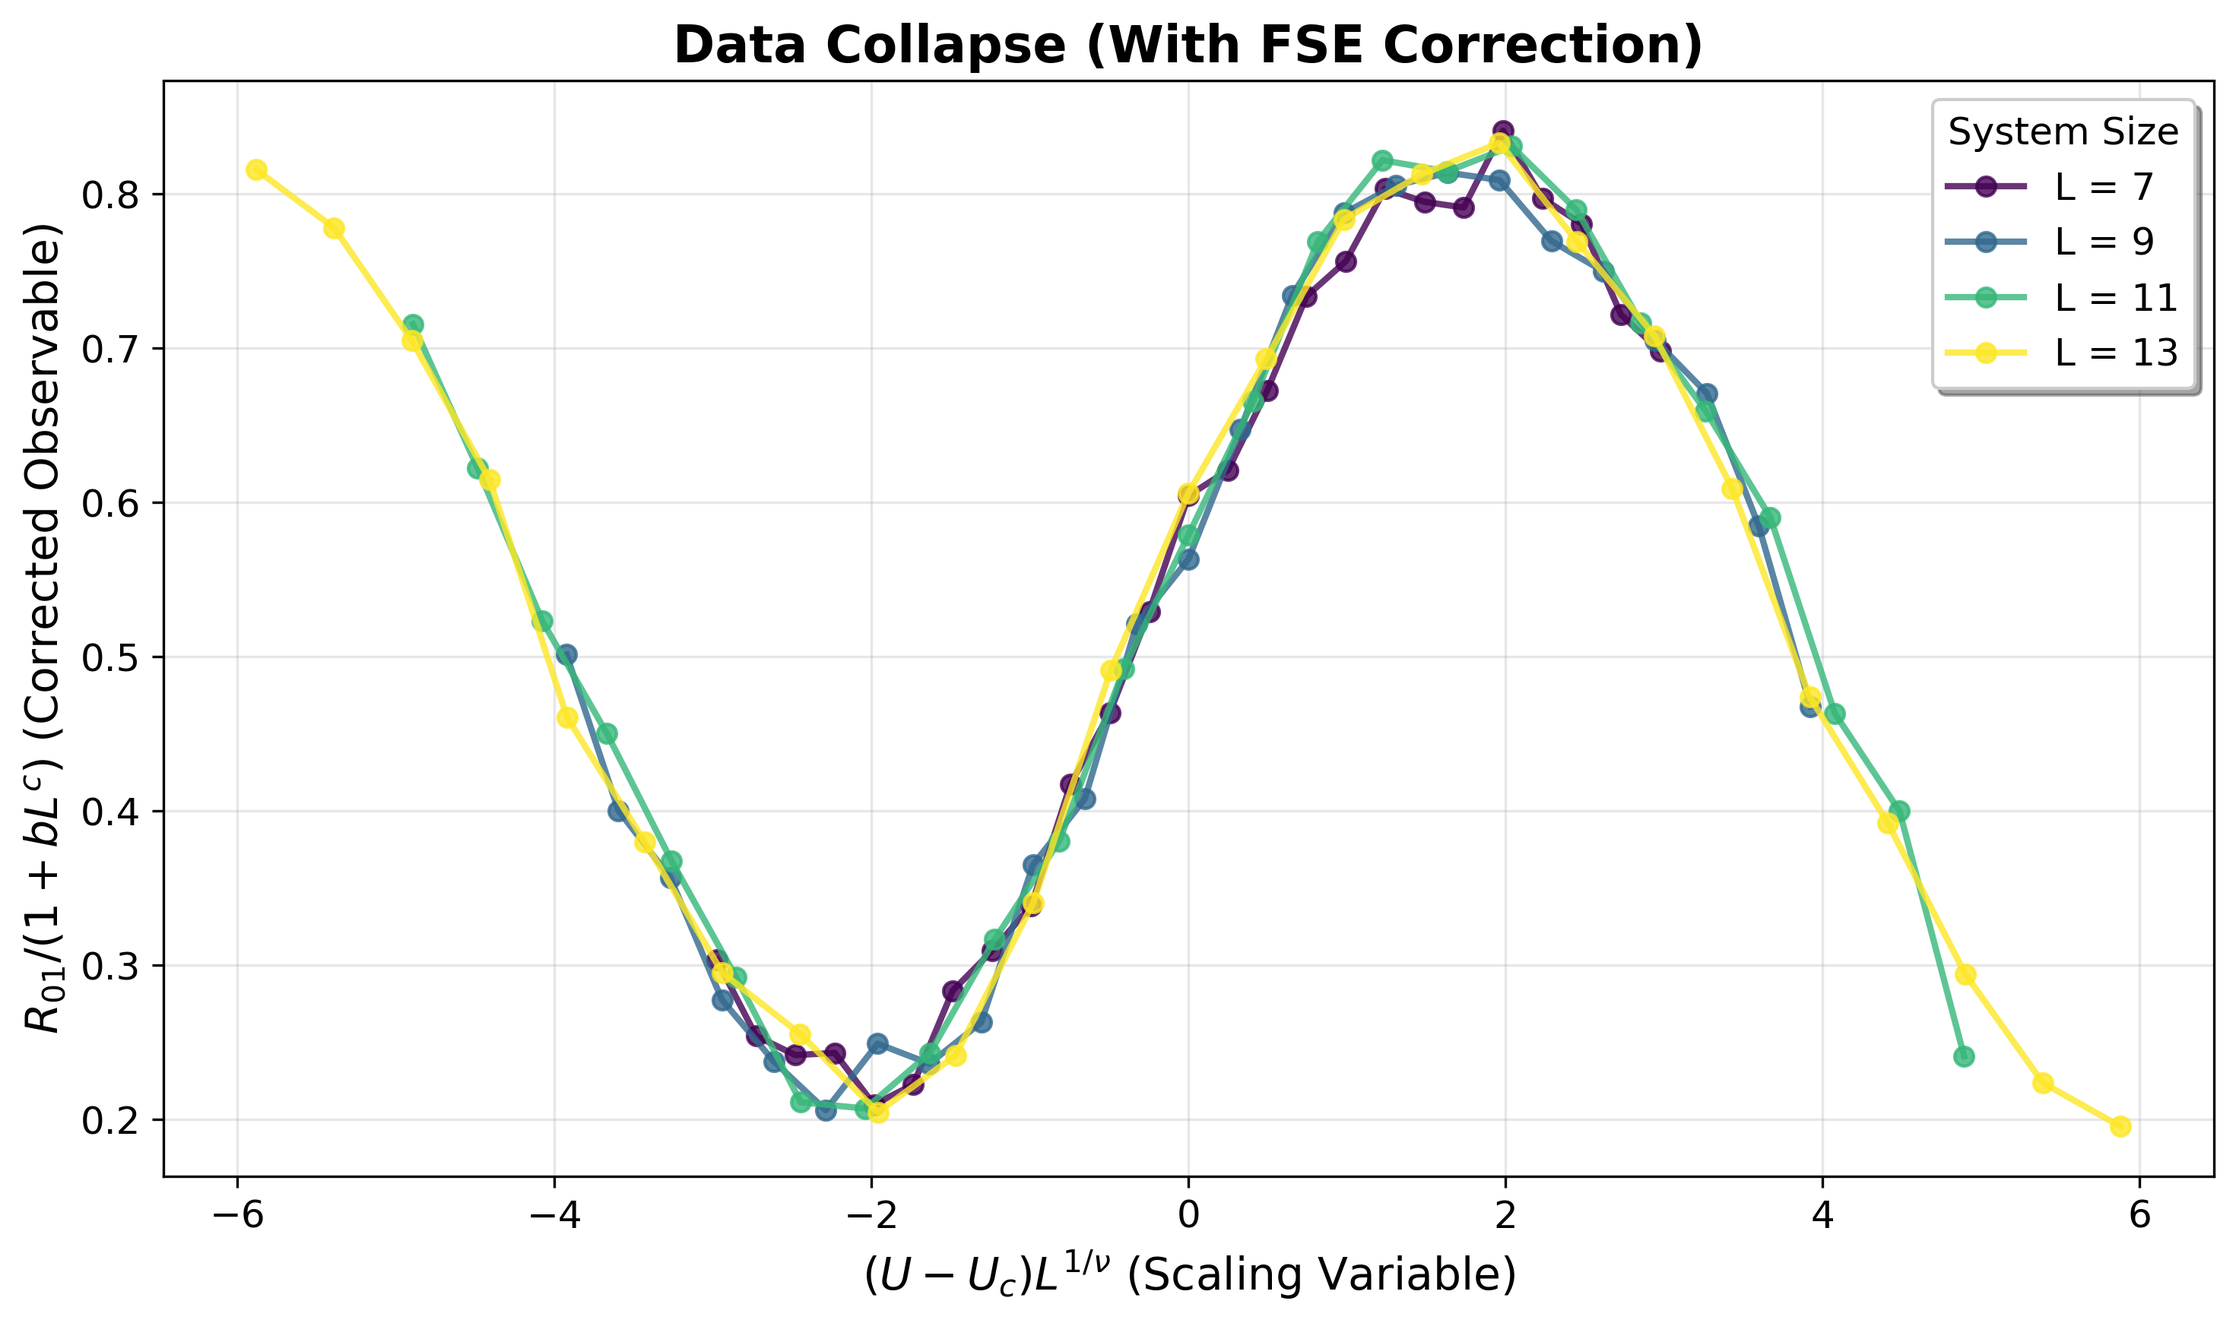
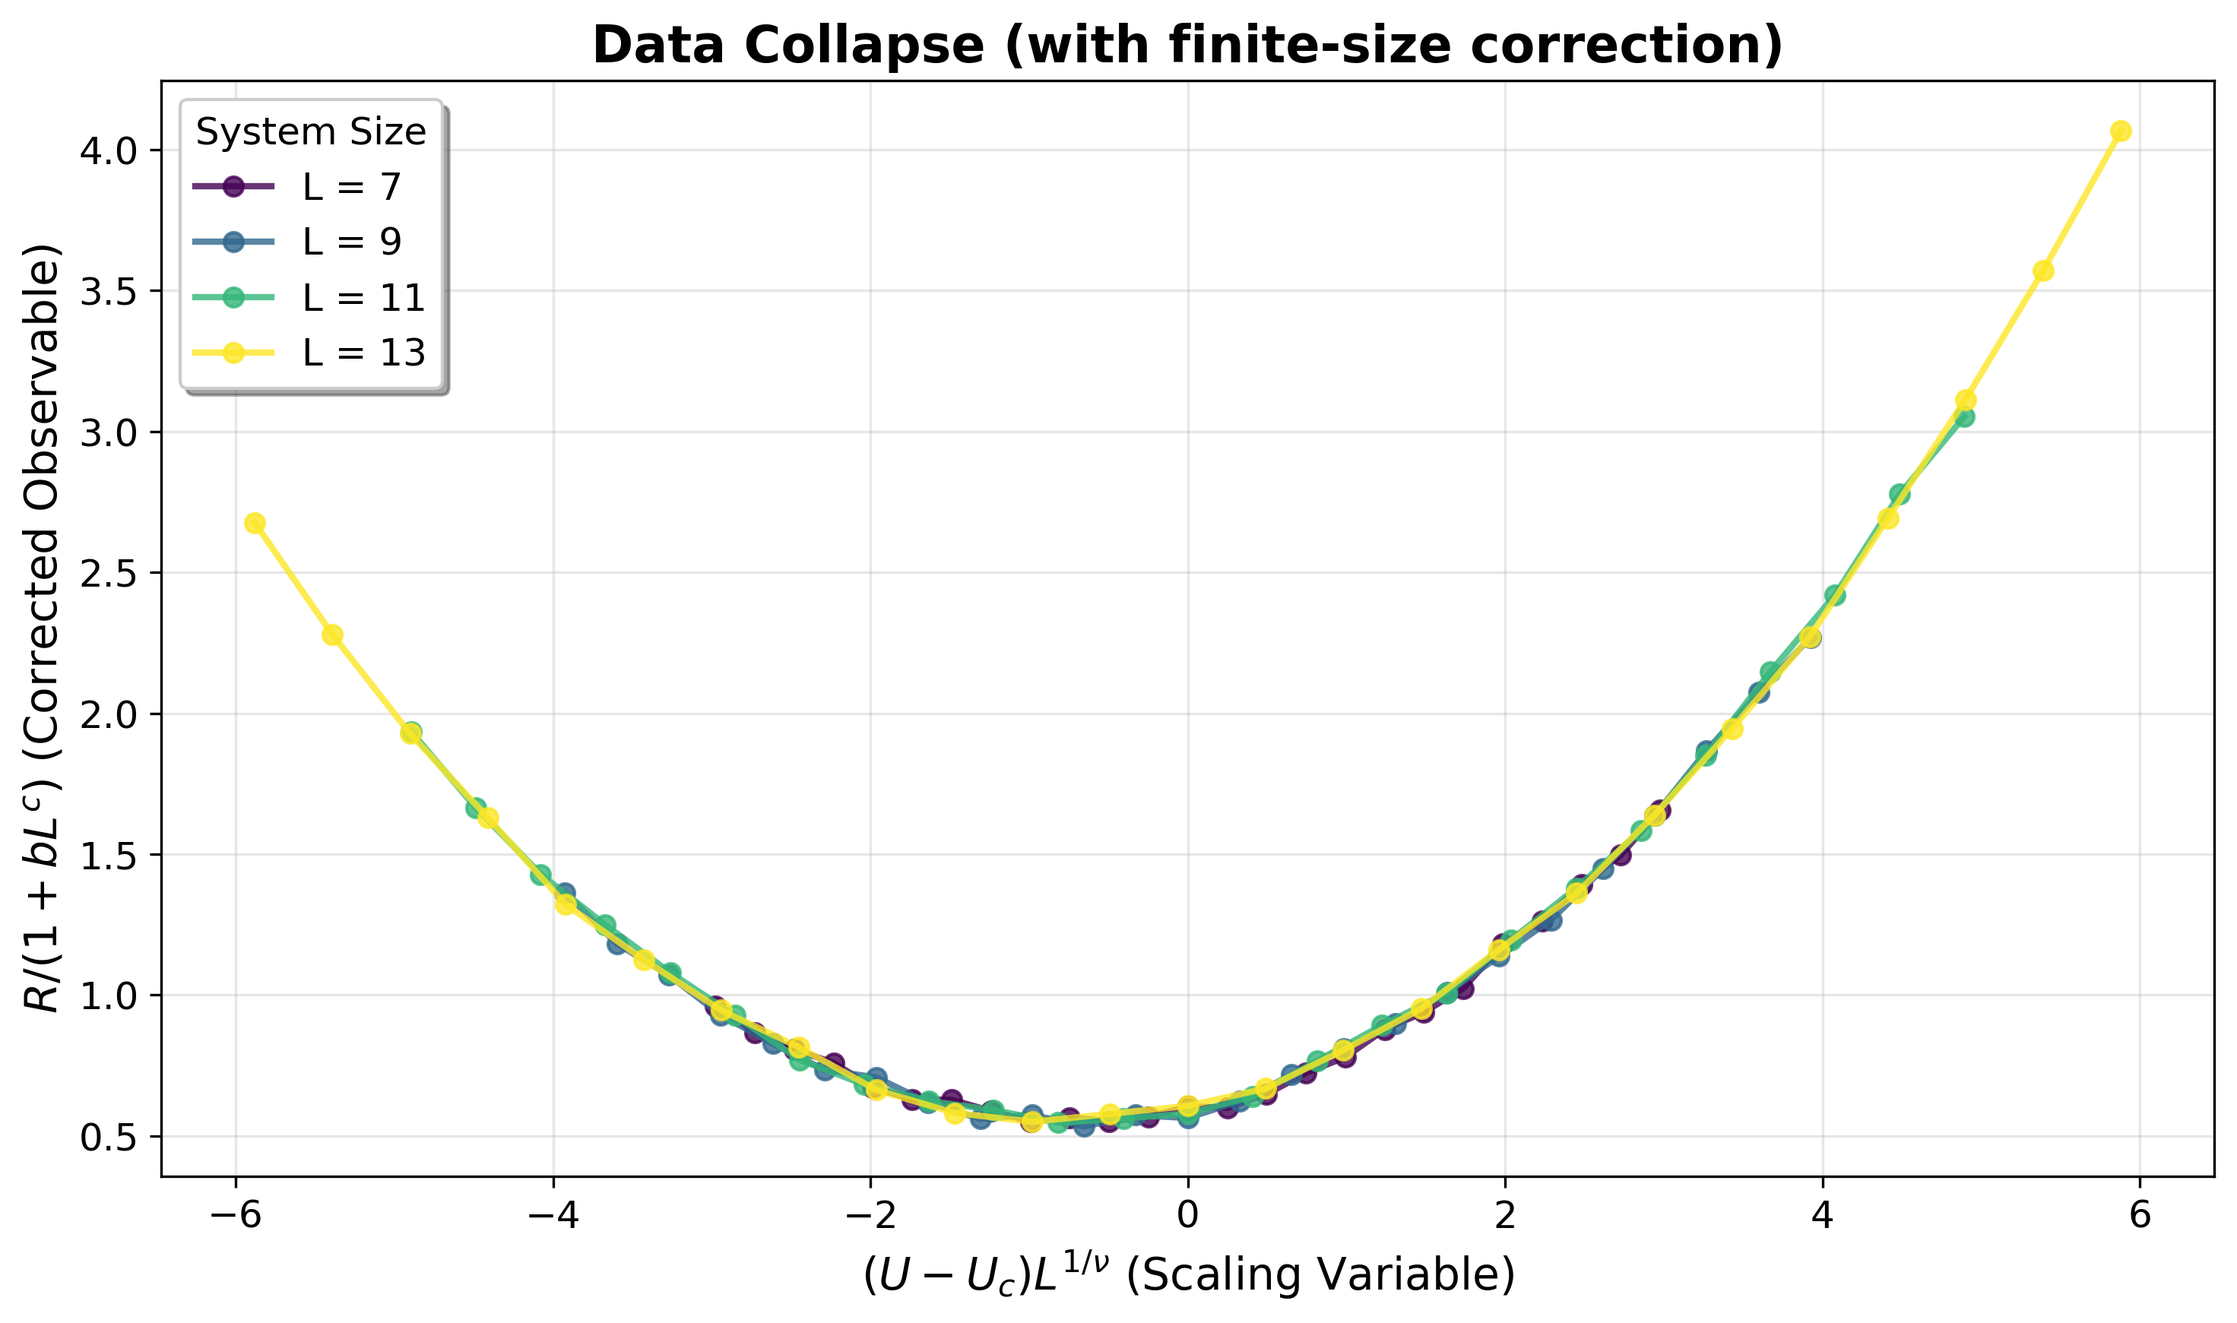
docs: remove acronym FSE; use quadratic demo data; rename R01->R; regenerate demo images

diff --git a/generate_demo_images.py b/generate_demo_images.py
@@ -1,0 +1,155 @@
+#!/usr/bin/env python3
+"""
+Generate demo images for README to showcase data collapse effects.
+"""
+
+import numpy as np
+import matplotlib.pyplot as plt
+from matplotlib import rcParams
+import os
+
+# Set matplotlib style for better-looking plots
+rcParams['font.size'] = 12
+rcParams['axes.labelsize'] = 14
+rcParams['axes.titlesize'] = 16
+rcParams['xtick.labelsize'] = 12
+rcParams['ytick.labelsize'] = 12
+rcParams['legend.fontsize'] = 12
+rcParams['figure.figsize'] = (10, 6)
+
+def generate_demo_data():
+    """Generate synthetic data that demonstrates data collapse."""
+    np.random.seed(42)  # For reproducibility
+    
+    # System sizes
+    L_values = [7, 9, 11, 13]
+    
+    # Control parameter range
+    U_range = np.linspace(8.3, 9.0, 25)
+    
+    # True critical parameters
+    U_c_true = 8.65
+    a_true = 1.1
+    
+    # Generate data for each L
+    all_data = []
+    for L in L_values:
+        # Scaling variable
+        x_scaled = (U_range - U_c_true) * (L ** a_true)
+        
+        # Quadratic-like universal function
+        Y_universal = 0.6 + 0.12 * x_scaled + 0.08 * (x_scaled**2)
+        
+        # Add finite-size corrections (multiplicative)
+        Y_fse = Y_universal * (1 + 0.4 * L**(-0.8))
+        
+        # Add noise
+        noise = 0.02 * np.random.randn(len(U_range))
+        Y_noisy = Y_fse + noise
+        
+        # Store data
+        for U, Y in zip(U_range, Y_noisy):
+            all_data.append([L, U, Y])
+    
+    return np.array(all_data)
+
+def plot_raw_data(data, save_path):
+    """Plot raw data before collapse."""
+    plt.figure(figsize=(10, 6))
+    
+    # Group by L and plot
+    L_values = sorted(set(data[:, 0]))
+    colors = plt.cm.viridis(np.linspace(0, 1, len(L_values)))
+    
+    for i, L in enumerate(L_values):
+        mask = data[:, 0] == L
+        U = data[mask, 1]
+        Y = data[mask, 2]
+        plt.plot(U, Y, 'o-', color=colors[i], linewidth=2, markersize=6, 
+                label=f'L = {int(L)}', alpha=0.8)
+    
+    plt.xlabel(r'$U$ (Control Parameter)', fontsize=14)
+    plt.ylabel(r'$R$ (Observable, dimensionless)', fontsize=14)
+    plt.title('Raw Data Before Collapse', fontsize=16, fontweight='bold')
+    plt.legend(title='System Size', frameon=True, fancybox=True, shadow=True)
+    plt.grid(True, alpha=0.3)
+    plt.tight_layout()
+    
+    os.makedirs(os.path.dirname(save_path), exist_ok=True)
+    plt.savefig(save_path, dpi=300, bbox_inches='tight')
+    plt.close()
+    print(f"Saved raw data plot to: {save_path}")
+
+def plot_no_fse_collapse(data, save_path):
+    """Plot data after collapse without finite-size correction."""
+    plt.figure(figsize=(10, 6))
+    
+    U_c_true = 8.65
+    a_true = 1.1
+    
+    L_values = sorted(set(data[:, 0]))
+    colors = plt.cm.viridis(np.linspace(0, 1, len(L_values)))
+    
+    for i, L in enumerate(L_values):
+        mask = data[:, 0] == L
+        U = data[mask, 1]
+        Y = data[mask, 2]
+        x_scaled = (U - U_c_true) * (L ** a_true)
+        plt.plot(x_scaled, Y, 'o-', color=colors[i], linewidth=2, markersize=6,
+                label=f'L = {int(L)}', alpha=0.8)
+    
+    plt.xlabel(r'$(U - U_c) L^{1/\nu}$ (Scaling Variable)', fontsize=14)
+    plt.ylabel(r'$R$ (Observable, dimensionless)', fontsize=14)
+    plt.title('Data Collapse (without finite-size correction)', fontsize=16, fontweight='bold')
+    plt.legend(title='System Size', frameon=True, fancybox=True, shadow=True)
+    plt.grid(True, alpha=0.3)
+    plt.tight_layout()
+    
+    plt.savefig(save_path, dpi=300, bbox_inches='tight')
+    plt.close()
+    print(f"Saved No finite-size-correction plot to: {save_path}")
+
+def plot_fse_collapse(data, save_path):
+    """Plot data after collapse with finite-size correction."""
+    plt.figure(figsize=(10, 6))
+    
+    U_c_true = 8.65
+    a_true = 1.1
+    b_true = 0.4
+    c_true = -0.8
+    
+    L_values = sorted(set(data[:, 0]))
+    colors = plt.cm.viridis(np.linspace(0, 1, len(L_values)))
+    
+    for i, L in enumerate(L_values):
+        mask = data[:, 0] == L
+        U = data[mask, 1]
+        Y = data[mask, 2]
+        x_scaled = (U - U_c_true) * (L ** a_true)
+        Y_corrected = Y / (1 + b_true * (L ** c_true))
+        plt.plot(x_scaled, Y_corrected, 'o-', color=colors[i], linewidth=2, markersize=6,
+                label=f'L = {int(L)}', alpha=0.8)
+    
+    plt.xlabel(r'$(U - U_c) L^{1/\nu}$ (Scaling Variable)', fontsize=14)
+    plt.ylabel(r'$R / (1 + b L^c)$ (Corrected Observable)', fontsize=14)
+    plt.title('Data Collapse (with finite-size correction)', fontsize=16, fontweight='bold')
+    plt.legend(title='System Size', frameon=True, fancybox=True, shadow=True)
+    plt.grid(True, alpha=0.3)
+    plt.tight_layout()
+    
+    plt.savefig(save_path, dpi=300, bbox_inches='tight')
+    plt.close()
+    print(f"Saved with finite-size-correction plot to: {save_path}")
+
+def main():
+    print("Generating demo images for README...")
+    data = generate_demo_data()
+    images_dir = "docs/images"
+    os.makedirs(images_dir, exist_ok=True)
+    plot_raw_data(data, f"{images_dir}/raw_data.png")
+    plot_no_fse_collapse(data, f"{images_dir}/nofse_collapse.png")
+    plot_fse_collapse(data, f"{images_dir}/fse_collapse.png")
+    print(f"\nAll demo images generated in: {images_dir}")
+
+if __name__ == "__main__":
+    main() 

diff --git a/README.md b/README.md
@@ -3,17 +3,17 @@
 [English](#datacollapse--quantum-critical-point-data-collapse-library) | [中文](#datacollapse--量子临界点数据坍缩工具库)
 
 A Python library for finite-size scaling (FSS) data collapse analysis:
-- **No-FSE**: Y ≈ f((U − U_c) L^a)
-- **With FSE**: Y ≈ f((U − U_c) L^a) · (1 + b L^c), with normalization support to eliminate amplitude degeneracy
-- **Universal function f(x)** represented by linear splines with second-difference smoothing, no need for analytical forms
-- **Weighted least squares** (weights = 1/σ²) with bootstrap uncertainty estimation
-- **Multi-optimizer support** with random restarts and robust FSE variants
+- Without finite-size correction: Y ≈ f((U − U_c) L^a)
+- With finite-size correction: Y ≈ f((U − U_c) L^a) · (1 + b L^c), with normalization support to eliminate amplitude degeneracy
+- Universal function f(x) represented by linear splines with second-difference smoothing, no need for analytical forms
+- Weighted least squares (weights = 1/σ²) with bootstrap uncertainty estimation
+- Multi-optimizer support with random restarts and robust finite-size-correction variants
 
 ---
 
 ## 🎯 Key Features
 - Joint fitting of (U_c, a[, b, c]) parameters with spline curve f(x)
-- Robust FSE interface: grid over (b, c), inner loop optimizes only (U_c, a)
+- Robust finite-size-correction interface: grid over (b, c), inner loop optimizes only (U_c, a)
 - Optimizer options: Nelder–Mead, Powell, or "NM→Powell" combination; supports random_restarts
 - Unified random_state for reproducibility
 - Compatible with `numpy`, `scipy`, `matplotlib`
@@ -25,11 +25,11 @@ A Python library for finite-size scaling (FSS) data collapse analysis:
 ### Before Collapse (Raw Data)
 ![Raw Data](docs/images/raw_data.png)
 
-### After No-FSE Collapse
-![No-FSE Collapse](docs/images/nofse_collapse.png)
+### After Collapse (without finite-size correction)
+![No finite-size correction](docs/images/nofse_collapse.png)
 
-### After FSE Collapse
-![FSE Collapse](docs/images/fse_collapse.png)
+### After Collapse (with finite-size correction)
+![With finite-size correction](docs/images/fse_collapse.png)
 
 ---
 
@@ -53,7 +53,7 @@ pip install -e .
 Input `data` should be a `numpy.ndarray` of shape (N,3):
 - Column 1: L (system size, positive numbers)
 - Column 2: U (control parameter)
-- Column 3: Y (observable, e.g., R01)
+- Column 3: Y (observable, e.g., R)
 
 Optional `err` (shape (N,) or (N,k)), last column is σ (vertical error bar) for each point.
 
@@ -61,7 +61,7 @@ Optional `err` (shape (N,) or (N,k)), last column is σ (vertical error bar) for
 
 ## 💡 Quick Examples
 
-### Minimal Example (No-FSE)
+### Minimal Example (without finite-size correction)
 ```python
 import numpy as np
 from datacollapse import fit_data_collapse, collapse_transform
@@ -69,7 +69,8 @@ from datacollapse import fit_data_collapse, collapse_transform
 # Generate example data (replace with your own data)
 L = np.repeat([7,9,11,13], 25)
 U = np.tile(np.linspace(8.3, 9.0, 25), 4)
-Y = np.sin((U-8.6)*L**1.1) * 0.2 + 0.5 + 0.02*np.random.randn(L.size)
+# Quadratic-like dependence in the scaling variable
+Y = 0.6 + 0.12*((U-8.6)*L**1.1) + 0.08*((U-8.6)*L**1.1)**2 + 0.02*np.random.randn(L.size)
 err = 0.03*np.ones_like(Y)
 
 data = np.column_stack([L,U,Y])
@@ -86,7 +87,7 @@ x, Yc = collapse_transform(data, params)
 # Plot (x, Yc) with matplotlib, color-coded by L
 ```
 
-### Minimal Example (FSE, Robust Variant)
+### Minimal Example (with finite-size correction, robust variant)
 ```python
 import numpy as np
 from datacollapse import fit_data_collapse_fse_robust, collapse_transform
@@ -122,6 +123,7 @@ python cli.py --csv your_data.csv --mode nofse \
 python cli.py --csv your_data.csv --mode fse-robust \
   --Uc0 8.65 --a0 1.0 --b_grid "0.2:1.2:0.2" --c_grid "-1.5:-0.3:0.2" \
   --n_knots 12 --lam 1e-3 --normalize --L_ref geom
+# Note: "fse-robust" mode performs a grid over (b,c) while optimizing (Uc,a)
 ```
 
 ---
@@ -130,7 +132,7 @@ python cli.py --csv your_data.csv --mode fse-robust \
 
 ### Parameter Bounds
 - `a` (ν^(-1)): [0.3, 2.0] if no prior; widen and use `random_restarts` if local minima issues
-- FSE `c < 0` (e.g., [-1.5, -0.05]); recommend `normalize=True` to reduce amplitude degeneracy
+- Finite-size correction exponent `c < 0` (e.g., [-1.5, -0.05]); recommend `normalize=True` to reduce amplitude degeneracy
 
 ### Spline Parameters
 - `n_knots`: 10–16 commonly used
@@ -145,9 +147,9 @@ python cli.py --csv your_data.csv --mode fse-robust \
 
 ## 🔧 Troubleshooting
 
-- **Optimization stuck at boundaries or oscillating**: Relax/reset `bounds`, increase `random_restarts`, or switch optimizers
-- **FSE (b,c) unstable**: Enable `normalize=True`; use robust variant; moderately increase `lam`
-- **Poor visual overlap**: Ensure using same (U_c,a,b,c) set for FSE plotting; confirm `normalize/L_ref` consistency
+- Optimization stuck at boundaries or oscillating: Relax/reset `bounds`, increase `random_restarts`, or switch optimizers
+- Finite-size correction (b,c) unstable: Enable `normalize=True`; use robust variant; moderately increase `lam`
+- Poor visual overlap: Ensure using same (U_c,a,b,c) set for plotting with finite-size correction; confirm `normalize/L_ref` consistency
 
 ---
 
@@ -186,17 +188,17 @@ MIT © 2025 Yin-Kai Yu (余荫铠)
 [English](#datacollapse--quantum-critical-point-data-collapse-library) | [中文](#datacollapse--量子临界点数据坍缩工具库)
 
 一个用于有限尺寸标度（Finite-Size Scaling, FSS）数据坍缩的 Python 库：
-- **无有限尺寸修正（No-FSE）**：Y ≈ f((U − U_c) L^a)
-- **带有限尺寸修正（FSE）**：Y ≈ f((U − U_c) L^a) · (1 + b L^c)，并支持归一化消除幅度简并
-- **f(x) 由带二阶差分平滑的线性样条表示**，无需预设解析形式
-- **加权最小二乘（权重=1/σ²）**，并支持 bootstrap 估计不确定度
-- **多优化器、多起点随机重启、稳健 FSE 变体**
+- 无有限尺寸修正：Y ≈ f((U − U_c) L^a)
+- 带有限尺寸修正：Y ≈ f((U − U_c) L^a) · (1 + b L^c)，支持归一化以降低幅度简并
+- f(x) 由带二阶差分平滑的线性样条表示，无需预设解析形式
+- 加权最小二乘（权重=1/σ²），并支持 bootstrap 估计不确定度
+- 多优化器、多起点随机重启、有限尺寸修正的稳健变体
 
 ---
 
 ## 🎯 特性亮点
-- 支持 (U_c, a[, b, c]) 与样条曲线 f(x) 的联合拟合
-- 提供稳健 FSE 接口：对 (b, c) 进行栅格，内层仅优化 (U_c, a)
+- 联合拟合 (U_c, a[, b, c]) 与样条曲线 f(x)
+- 有限尺寸修正的稳健接口：对 (b, c) 栅格搜索，内层仅优化 (U_c, a)
 - 优化器可选：Nelder–Mead、Powell、或"NM→Powell"组合；支持 random_restarts
 - 统一 random_state 以保证可重复性
 - 兼容 `numpy`, `scipy`, `matplotlib`
@@ -208,11 +210,11 @@ MIT © 2025 Yin-Kai Yu (余荫铠)
 ### 坍缩前（原始数据）
 ![原始数据](docs/images/raw_data.png)
 
-### No-FSE 坍缩后
-![No-FSE 坍缩](docs/images/nofse_collapse.png)
+### 坍缩后（不含有限尺寸修正）
+![不含有限尺寸修正](docs/images/nofse_collapse.png)
 
-### FSE 坍缩后
-![FSE 坍缩](docs/images/fse_collapse.png)
+### 坍缩后（包含有限尺寸修正）
+![包含有限尺寸修正](docs/images/fse_collapse.png)
 
 ---
 
@@ -235,20 +237,20 @@ pip install -e .
 输入 `data` 为形状 (N,3) 的 `numpy.ndarray`，列含义：
 - 第1列：L（系统尺寸，正数）
 - 第2列：U（控制参数）
-- 第3列：Y（观测量，如 R01）
+- 第3列：Y（无量纲量，例如 R）
 可选 `err`（形状 (N,) 或 (N,k)），最后一列为该点的 σ（竖向误差）。
 
 ---
 
-## 💡 最小示例（No-FSE）
+## 💡 最小示例（不含有限尺寸修正）
 ```python
 import numpy as np
 from datacollapse import fit_data_collapse, collapse_transform
 
-# 伪造示例数据（请用你自己的数据替换）
+# 伪造示例数据（请用你自己的数据替换），采用二次型依赖
 L = np.repeat([7,9,11,13], 25)
 U = np.tile(np.linspace(8.3, 9.0, 25), 4)
-Y = np.sin((U-8.6)*L**1.1) * 0.2 + 0.5 + 0.02*np.random.randn(L.size)
+Y = 0.6 + 0.12*((U-8.6)*L**1.1) + 0.08*((U-8.6)*L**1.1)**2 + 0.02*np.random.randn(L.size)
 err = 0.03*np.ones_like(Y)
 
 data = np.column_stack([L,U,Y])
@@ -267,7 +269,7 @@ x, Yc = collapse_transform(data, params)
 
 ---
 
-## 💡 最小示例（FSE，稳健变体）
+## 💡 最小示例（包含有限尺寸修正，稳健变体）
 ```python
 import numpy as np
 from datacollapse import fit_data_collapse_fse_robust, collapse_transform
@@ -302,6 +304,7 @@ python cli.py --csv your_data.csv --mode nofse \
 python cli.py --csv your_data.csv --mode fse-robust \
   --Uc0 8.65 --a0 1.0 --b_grid "0.2:1.2:0.2" --c_grid "-1.5:-0.3:0.2" \
   --n_knots 12 --lam 1e-3 --normalize --L_ref geom
+# 注："fse-robust" 模式会在 (b,c) 栅格上搜索，并在内层优化 (U_c,a)
 ```
 
 ---
@@ -309,7 +312,7 @@ python cli.py --csv your_data.csv --mode fse-robust \
 ## ⚙ 推荐设置与经验
 - `bounds`：
   - `a`（即 ν^(-1)）若无先验，可设 [0.3, 2.0]；若局部最小值多，适当放宽并配合 `random_restarts`
-  - FSE 中 `c < 0`（如 [-1.5, -0.05]）；建议使用 `normalize=True` 降低幅度简并
+  - 有限尺寸修正中 `c < 0`（如 [-1.5, -0.05]）；建议使用 `normalize=True` 降低幅度简并
 - `n_knots` 与 `lam`：
   - 10–16 个结点较常用；`lam` 在 1e-4～1e-2 间调优，观察过拟合/过平滑迹象
 - 稳健性：
@@ -322,8 +325,8 @@ python cli.py --csv your_data.csv --mode fse-robust \
 
 ## 🔧 故障排查
 - 优化停在边界或震荡：放宽/重设 `bounds`，增加 `random_restarts`，或切换优化器
-- FSE (b,c) 不稳定：启用 `normalize=True`；改用稳健变体；适度增大 `lam`
-- 可视化不重叠：检查是否对 FSE 结果使用了相同一组 (U_c,a,b,c) 参数绘图；确认 `normalize/L_ref` 与拟合时一致
+- 有限尺寸修正 (b,c) 不稳定：启用 `normalize=True`；改用稳健变体；适度增大 `lam`
+- 可视化不重叠：绘图时确保使用同一组 (U_c,a,b,c) 参数；检查 `normalize/L_ref` 与拟合时一致
 
 ---
 
@@ -336,7 +339,7 @@ python cli.py --csv your_data.csv --mode fse-robust \
 
 ## 🛣 贡献与路线图
 - 欢迎提交问题/PR；单元测试位于 `tests/`
-- 后续计划：MCP 服务封装与开源上游贡献（mcp.science）
+- 后续计划：MCP 服务封装与上游贡献（mcp.science）
 
 ---
 
@@ -352,4 +355,4 @@ MIT © 2025 Yin-Kai Yu (余荫铠)
 ---
 
 ## 📝 附：绘图小建议
-- Matplotlib 文本建议使用英文/LaTeX 记号，避免中文乱码；如 `r'$R_{01}$'`
+- Matplotlib 文本建议使用英文/LaTeX 记号，避免中文乱码；如 `r'$R$'`
